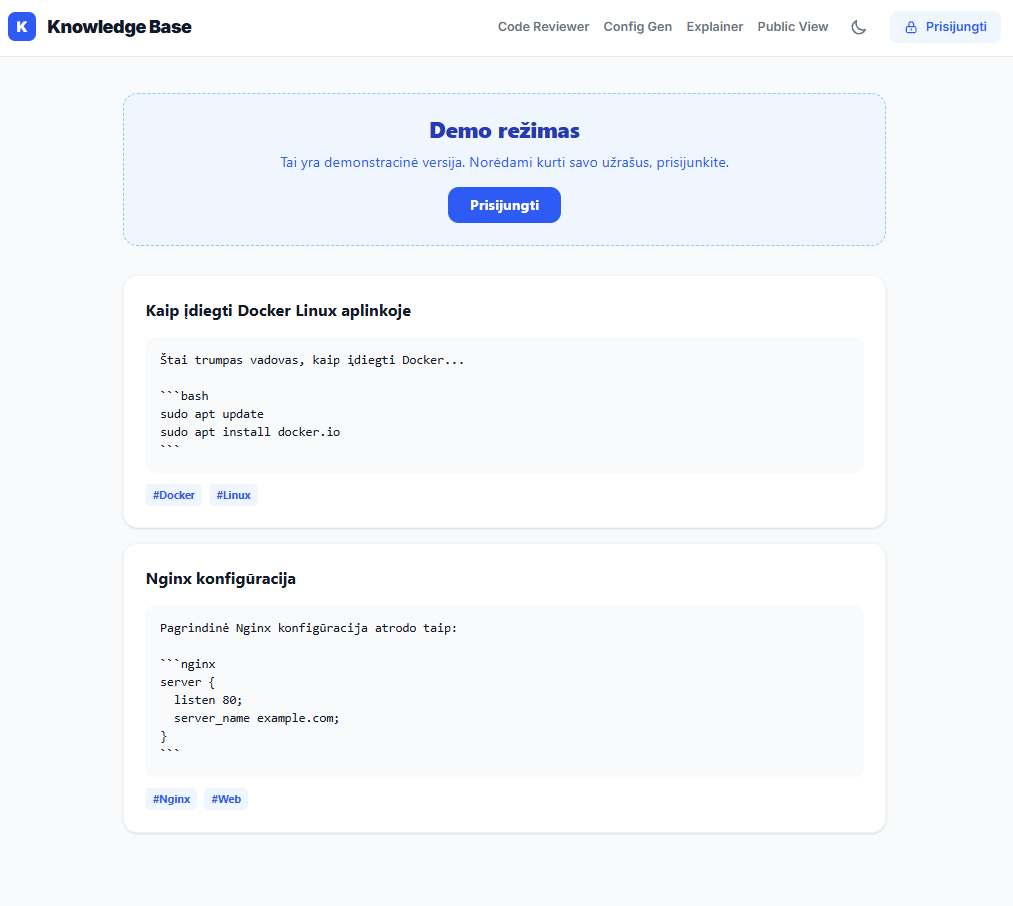
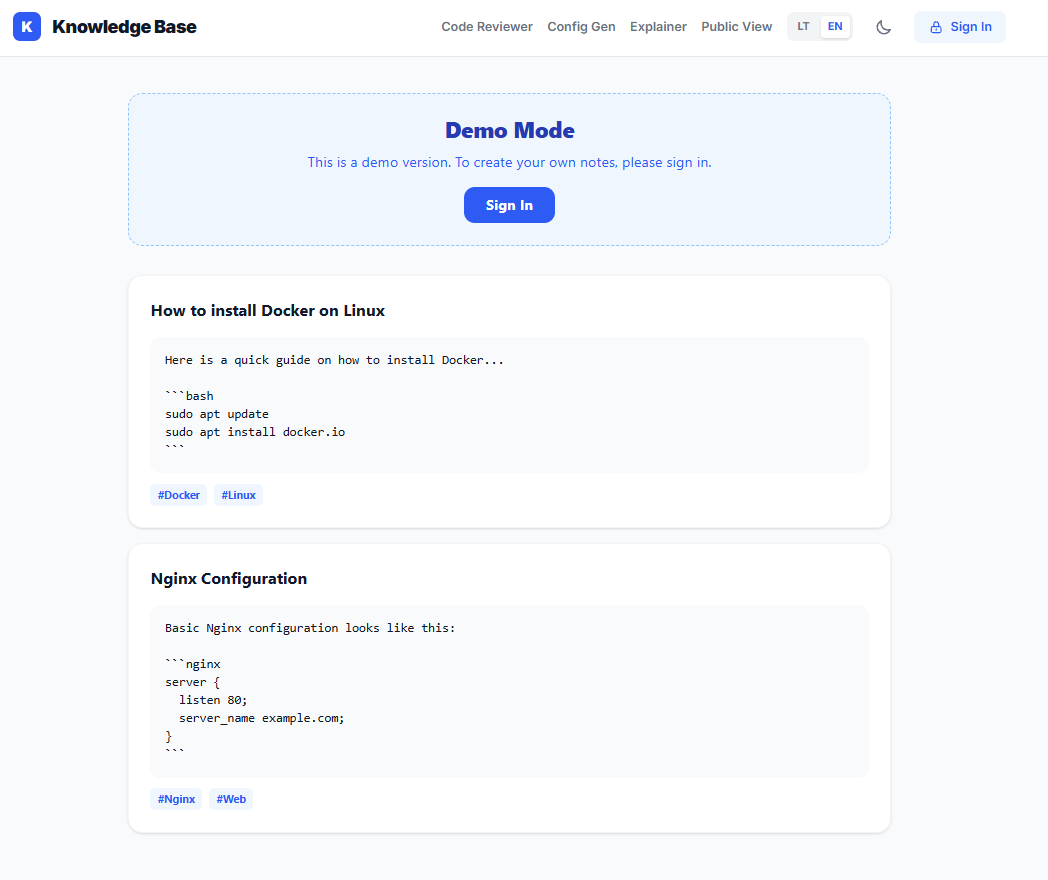
feat: implement self-service account deletion and improve auth config
- Add deleteAccount server action and DeleteAccountButton component
- Integrate account deletion into profile page with 'Danger Zone' section
- Update privacy policy to reflect self-service deletion
- Clarify AUTH_URL configuration for local vs production environments
- Fix redirect_uri mismatch by separating local and production env variables

diff --git a/src/app/[locale]/(main)/profile/page.tsx b/src/app/[locale]/(main)/profile/page.tsx
@@ -3,7 +3,8 @@ export const instant = false; // ✅ PRIVERČIAME BŪTI DINAMINĮ
 import { Suspense } from 'react';
 import { auth } from '@/app/auth';
 import { redirect } from 'next/navigation';
-import { setRequestLocale } from 'next-intl/server';
+import { setRequestLocale, getTranslations } from 'next-intl/server';
+import DeleteAccountButton from '@/components/DeleteAccountButton'; // <-- IMPORTAS
 
 // 1. Dinaminė dalis
 async function ProfileData() {
@@ -13,27 +14,38 @@ async function ProfileData() {
     redirect('/login');
   }
 
+  const t = await getTranslations('Profile'); // <-- Vertimai
+
   return (
     <div className="space-y-4">
       <div className="space-y-2">
         <p className="text-gray-600 dark:text-gray-400">
-          <strong>Vardas:</strong> {session.user?.name}
+          <strong>{t('name')}:</strong> {session.user?.name}
         </p>
         <p className="text-gray-600 dark:text-gray-400">
-          <strong>El. paštas:</strong> {session.user?.email}
+          <strong>{t('email')}:</strong> {session.user?.email}
         </p>
         <p className="text-gray-600 dark:text-gray-400">
-          <strong>ID:</strong> {session.user?.id}
+          <strong>{t('id')}:</strong> {session.user?.id}
         </p>
       </div>
 
       {session.user?.image && (
         <img
           src={session.user.image}
-          alt="Profilio nuotrauka"
+          alt={t('profileImage')}
           className="h-20 w-20 rounded-full border-2 border-blue-500"
         />
       )}
+
+      {/* ✅ PAVOJINGA ZONA */}
+      <div className="mt-8 border-t border-gray-200 pt-6 dark:border-gray-700">
+        <h2 className="mb-2 text-lg font-bold text-red-600 dark:text-red-400">{t('dangerZone')}</h2>
+        <p className="mb-4 text-sm text-gray-500 dark:text-gray-400">
+          {t('dangerZoneDescription')}
+        </p>
+        <DeleteAccountButton />
+      </div>
     </div>
   );
 }
@@ -54,11 +66,12 @@ function ProfileSkeleton() {
 export default async function ProfilePage({ params }: { params: Promise<{ locale: string }> }) {
   const { locale } = await params;
   setRequestLocale(locale);
+  const t = await getTranslations('Profile'); // <-- Vertimai pavadinimui
 
   return (
     <div className="flex min-h-screen items-center justify-center bg-gray-50 dark:bg-gray-900">
       <div className="w-full max-w-md space-y-6 rounded-2xl bg-white p-8 shadow-xl dark:bg-gray-800">
-        <h1 className="text-2xl font-bold text-gray-900 dark:text-white">Profilis</h1>
+        <h1 className="text-2xl font-bold text-gray-900 dark:text-white">{t('title')}</h1>
 
         <Suspense fallback={<ProfileSkeleton />}>
           <ProfileData />

diff --git a/README.md b/README.md
@@ -13,12 +13,14 @@ This isn't just a note-taking app; it's a full-stack platform that reads, analyz
 
 ## 📸 Screenshots
 
-![AI Search](./screenshots/home-white.png)
+![Home Page](./screenshots/home-black.png)
 ![Demo](./screenshots/demo.png)
 
 ## ✨ Features
 
+- **🌍 Full Internationalization (i18n):** Complete Lithuanian and English translation with `next-intl`. Automatic browser locale detection and language switcher.
 - **🔐 Multi-User & Role-Based Access (RBAC):** Secure login via Google & GitHub. Admin-only routes for Docker/System management, and isolated personal notes for regular users.
+- **🤖 Cloudflare Turnstile:** Bot protection on the login page, localized to match the selected language.
 - **👀 Read-Only Demo Mode:** Unauthenticated visitors can explore AI tools and public notes in a "read-only" state without consuming Gemini API quotas.
 - **📝 Markdown Notes:** Create, edit, and delete notes with a beautiful, responsive UI (Dark/Light mode).
 - **🏷 Tags & Search:** Organize notes with tags and search through titles, content, and tags.
@@ -38,6 +40,7 @@ This isn't just a note-taking app; it's a full-stack platform that reads, analyz
 - **🌐 Public Portfolio:** A public-facing page (`/public`) to showcase your shared notes.
 - **📊 Live Dashboard:** Monitor your Raspberry Pi's CPU, RAM, Uptime, and Docker containers in real-time (Admin only).
 - **🛡 API Cost Protection:** Google Cloud Spend Cap integration and strict session-based validation to prevent API abuse.
+- **🔍 SEO & AI Discoverability:** A-grade security headers (CSP, HSTS, etc.), `sitemap.xml`, `robots.txt`, `llms.txt`, and `ARD manifest` for AI agents.
 
 ## 🏗 Architecture
 
